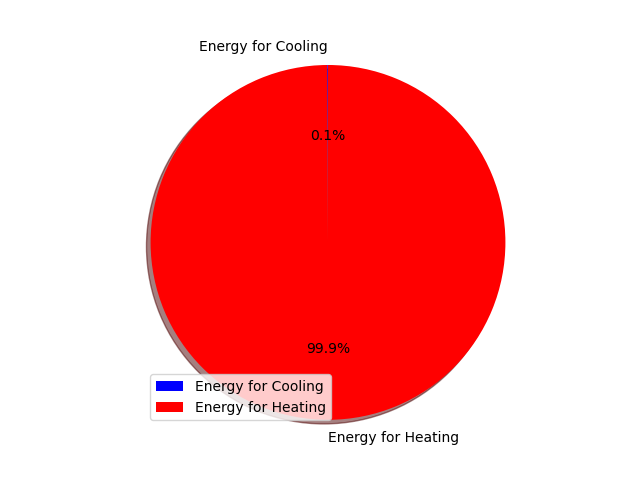
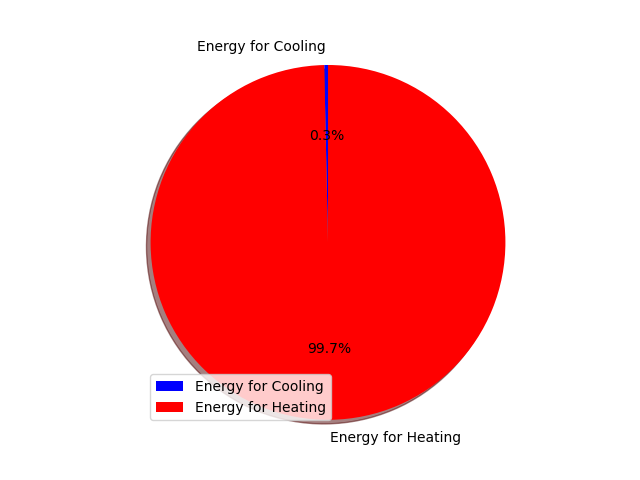
rough 1.1
minor changes

Changed region(s): [[0.3125, 0.0625, 0.5312, 0.3125], [0.5, 0.875, 0.7188, 0.9375], [0.4688, 0.7188, 0.5625, 0.75]]

diff --git a/templates/user_location.html b/templates/user_location.html
@@ -23,7 +23,7 @@
 
     <nav class="navbar navbar-dark bg-dark">
         <a class="navbar-brand" href="#">
-          <img src="/static/logo.jpg" width="30" height="30" class="d-inline-block align-top" alt="" loading="lazy">
+          <img src="/static/logo.jpeg" width="30" height="30" class="d-inline-block align-top" alt="" loading="lazy">
           NERKS.
         </a>
       </nav>

diff --git a/templates/creators.html b/templates/creators.html
@@ -65,7 +65,7 @@
       <div class="card mb-3" style="max-width: 100vw;">
         <div class="row no-gutters">
           <div class="col-md-4">
-            <img src="/static/pic.jpg" class="card-img" alt="...">
+            <img src="/static/eslam.jpeg" class="card-img" alt="...">
           </div>
           <div class="col-md-8">
             <div class="card-body">

diff --git a/app.py b/app.py
@@ -592,7 +592,7 @@ def showtime():
     # plotting the pie chart 
     plt.figure('2')
     plt.pie(slices, labels = activities, colors=colors,  
-            startangle=90, shadow = True, explode = (0.1, 0, 0), 
+            startangle=90, shadow = False, explode = (0, 0, 0), 
             radius = 1.2, autopct = '%1.1f%%') 
     
     # plotting legend 
@@ -614,7 +614,7 @@ def showtime():
     # plotting the pie chart 
     plt.figure('3')
     plt.pie(slice1, labels = activity, colors=colors,  
-            startangle=90, shadow = True, explode = (0, 0), 
+            startangle=90, shadow = False, explode = (0, 0), 
             radius = 1.2, autopct = '%1.1f%%') 
     
     # plotting legend 
